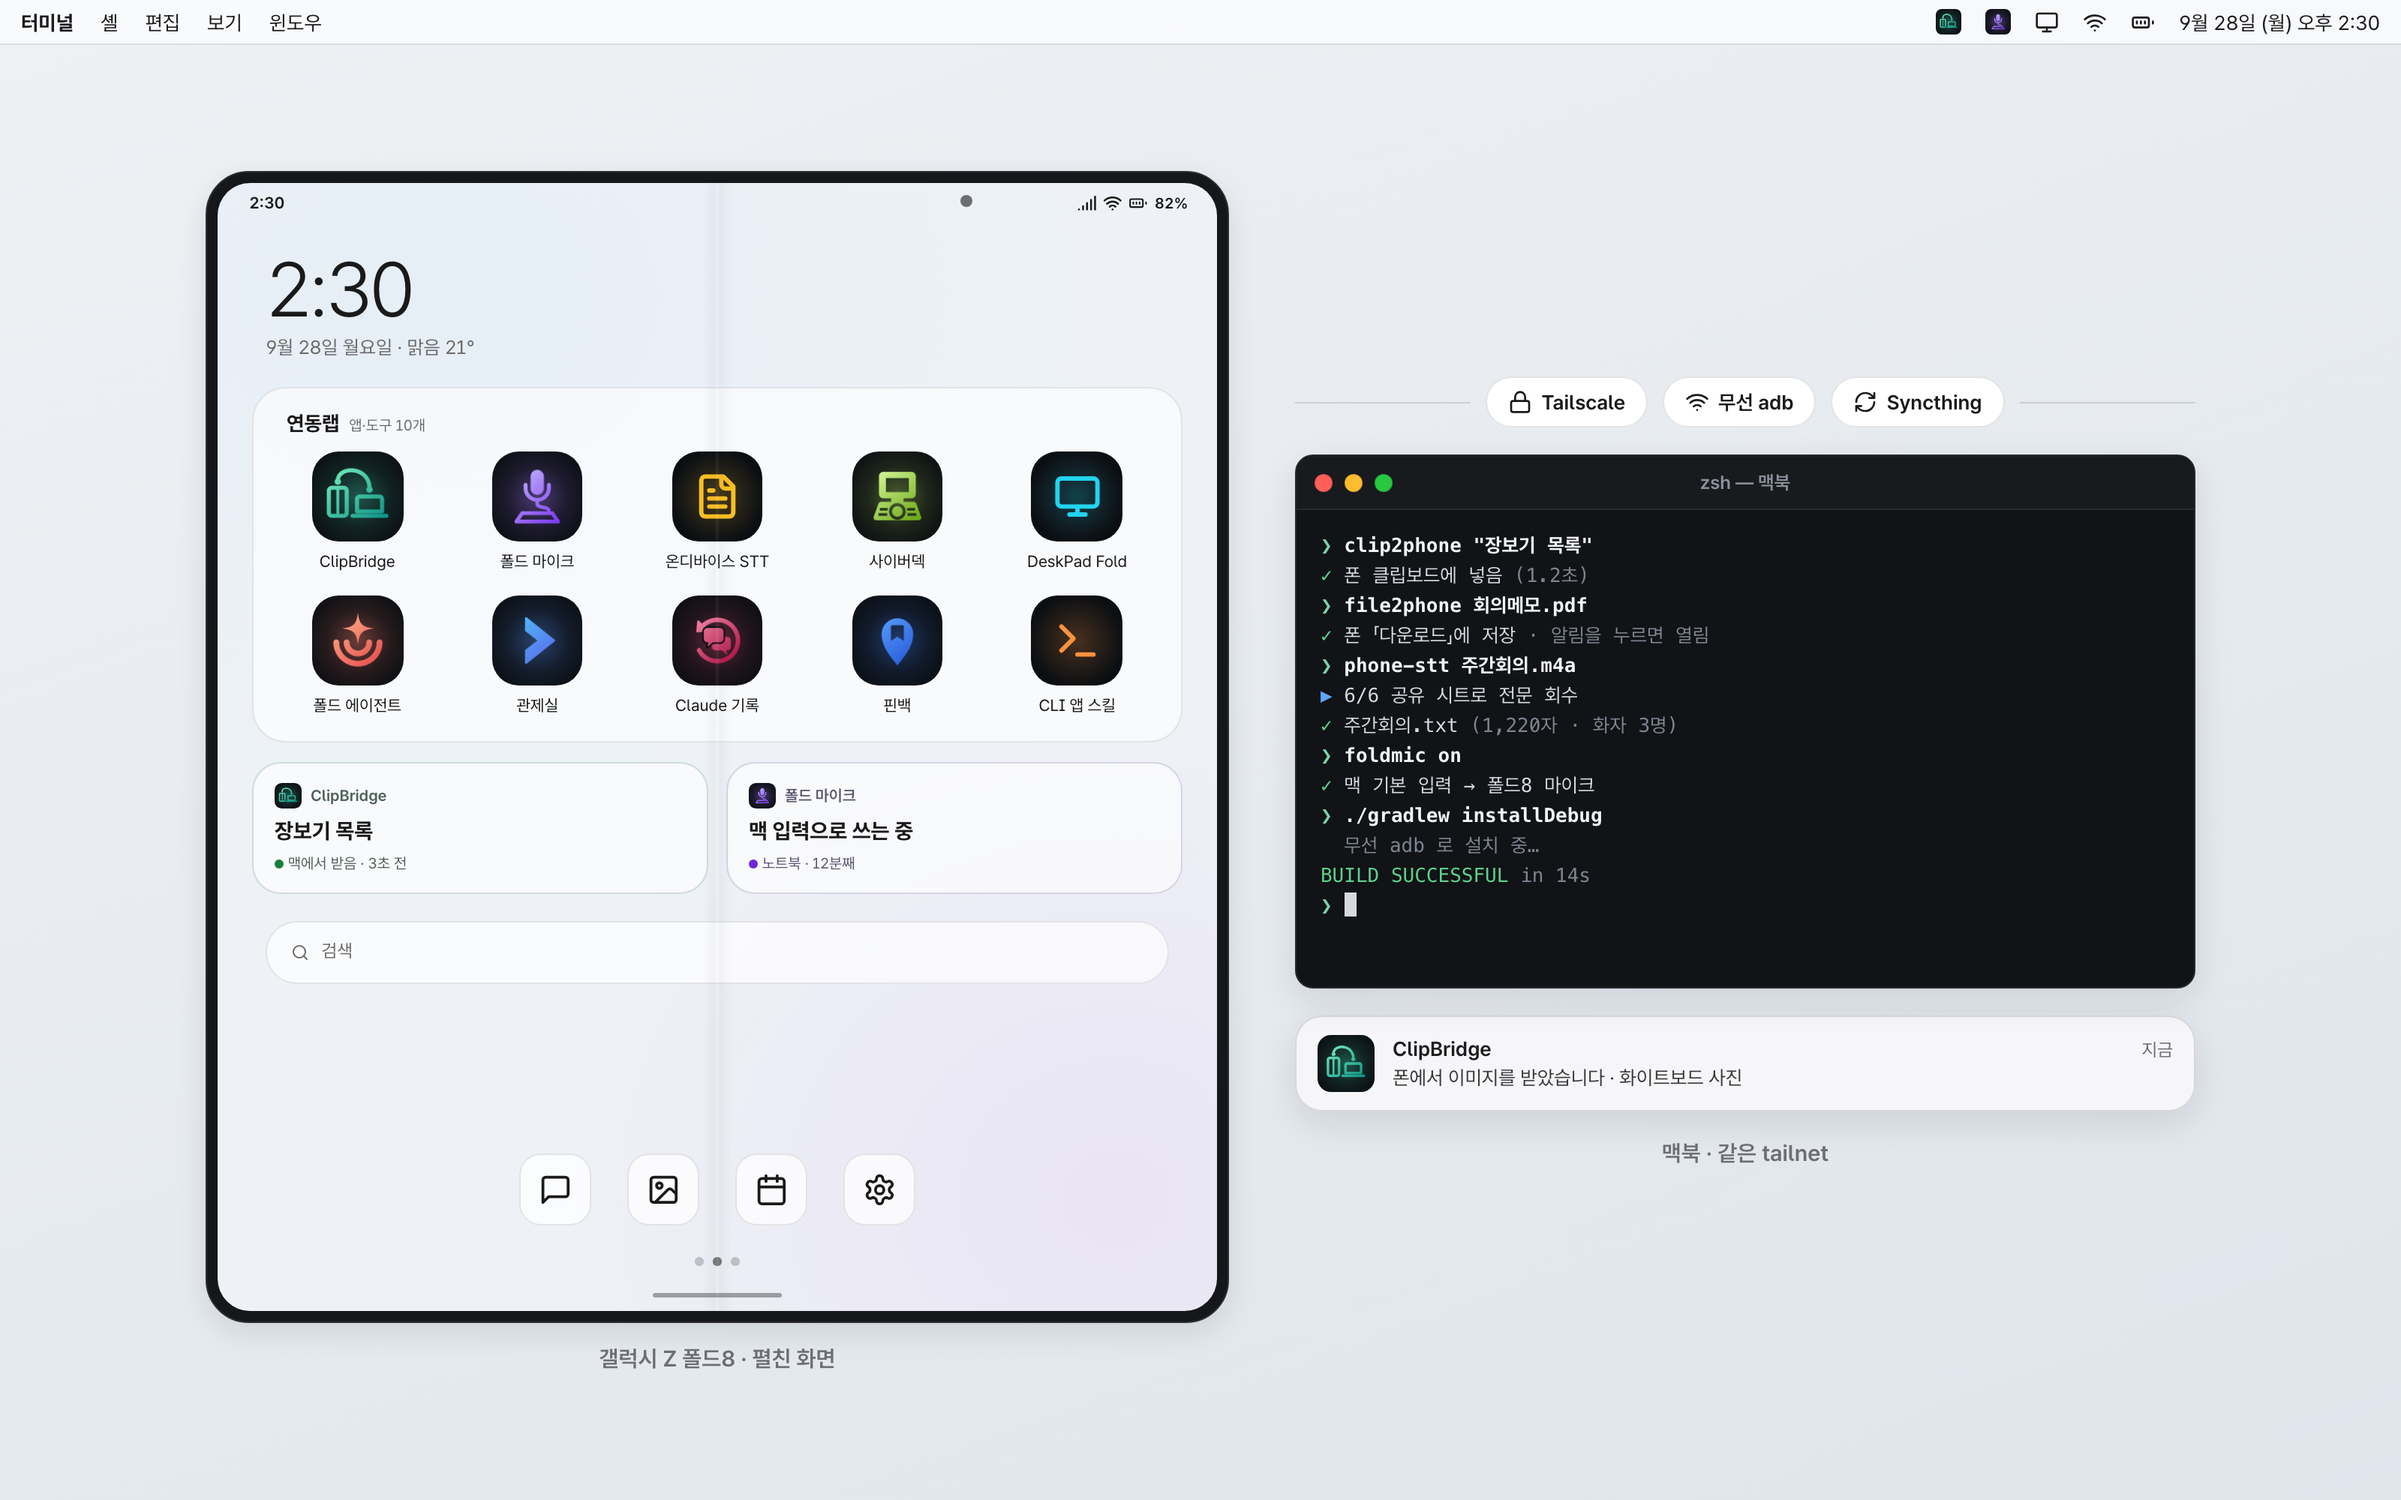
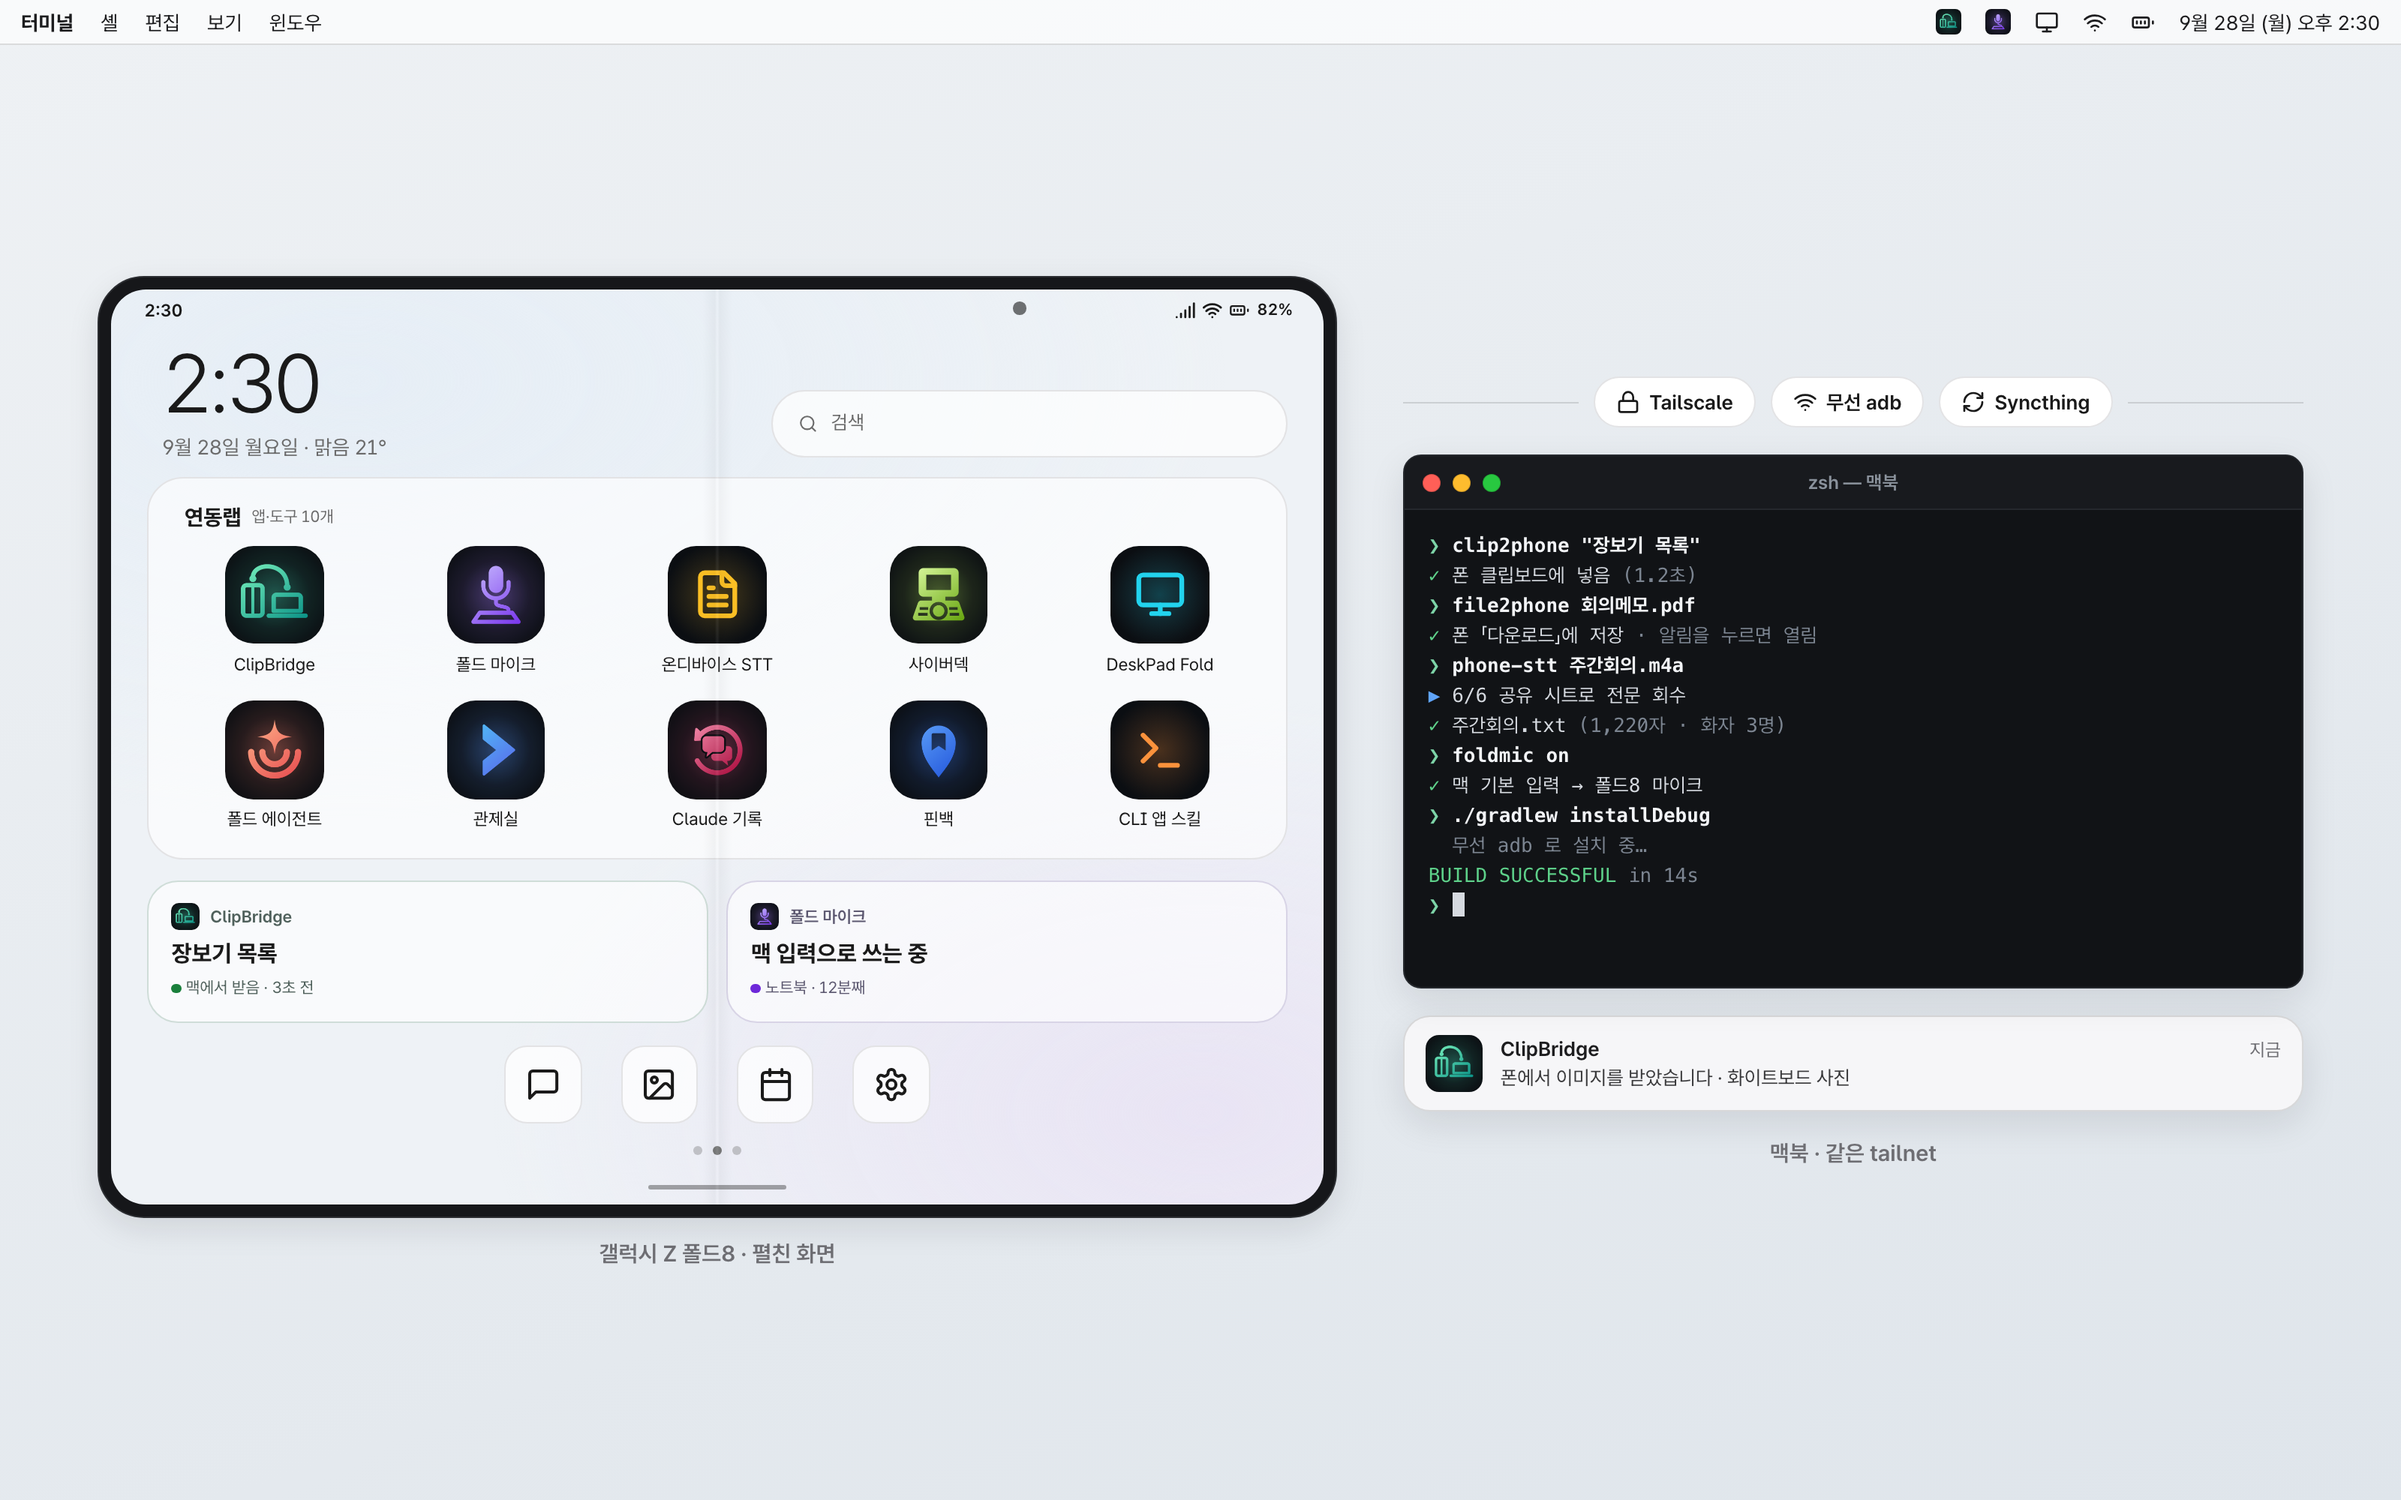
docs: re-render mockups at real Galaxy Z Fold8 ratios
Unfolded screen is now 940x710 landscape: clock and search share the top row
so the home screen fits without clipping; hero phone zoom .8 -> .86.

diff --git a/docs/mockups/hero.html b/docs/mockups/hero.html
@@ -36,12 +36,15 @@
 
     <!-- 폴드8 펼친 화면: 홈 화면에 랩의 앱들 -->
     <div>
-      <div class="fold-open" style="--zoom:.8">
+      <div class="fold-open" style="--zoom:.86">
         <div class="screen home">
           <div class="status-bar" data-time="2:30" data-batt="82"></div>
-          <div class="clock-widget">
+          <div class="home-top">
+            <div class="clock-widget">
             <div class="time">2:30</div>
             <div class="date">9월 28일 월요일 · 맑음 21°</div>
+          </div>
+            <div class="search-pill"><i data-icon="search"></i>검색</div>
           </div>
           <div class="app-folder">
             <div class="folder-title">연동랩 <span class="meta">앱·도구 10개</span></div>
@@ -62,7 +65,6 @@
             <div class="widget app-clipbridge"><div class="w-head"><img data-app="clipbridge" alt="">ClipBridge</div><div class="w-main">장보기 목록</div><div class="meta"><span class="dot ok"></span> 맥에서 받음 · 3초 전</div></div>
             <div class="widget app-foldmic"><div class="w-head"><img data-app="foldmic" alt="">폴드 마이크</div><div class="w-main">맥 입력으로 쓰는 중</div><div class="meta"><span class="dot accent"></span> 노트북 · 12분째</div></div>
           </div>
-          <div class="search-pill"><i data-icon="search"></i>검색</div>
           <div class="dock"><span class="d-ico"><i data-icon="message"></i></span><span class="d-ico"><i data-icon="image"></i></span><span class="d-ico"><i data-icon="calendar"></i></span><span class="d-ico"><i data-icon="settings"></i></span></div>
           <div class="page-dots"><i></i><i class="on"></i><i></i></div>
           <div class="nav-handle"></div>

diff --git a/docs/mockups/thumbnail.html b/docs/mockups/thumbnail.html
@@ -30,9 +30,12 @@
     <div class="fold-open app-neutral" style="--zoom:.76">
       <div class="screen home">
         <div class="status-bar" data-time="2:30" data-batt="82"></div>
-        <div class="clock-widget">
+        <div class="home-top">
+          <div class="clock-widget">
           <div class="time">2:30</div>
           <div class="date">9월 28일 월요일</div>
+        </div>
+          <div class="search-pill"><i data-icon="search"></i>검색</div>
         </div>
         <div class="app-folder">
           <div class="folder-title">연동랩 <span class="meta">앱·도구 10개</span></div>
@@ -53,7 +56,6 @@
             <div class="widget app-clipbridge"><div class="w-head"><img data-app="clipbridge" alt="">ClipBridge</div><div class="w-main">장보기 목록</div><div class="meta"><span class="dot ok"></span> 맥에서 받음 · 3초 전</div></div>
             <div class="widget app-foldmic"><div class="w-head"><img data-app="foldmic" alt="">폴드 마이크</div><div class="w-main">맥 입력으로 쓰는 중</div><div class="meta"><span class="dot accent"></span> 노트북 · 12분째</div></div>
           </div>
-          <div class="search-pill"><i data-icon="search"></i>검색</div>
         <div class="dock"><span class="d-ico"><i data-icon="message"></i></span><span class="d-ico"><i data-icon="image"></i></span><span class="d-ico"><i data-icon="calendar"></i></span><span class="d-ico"><i data-icon="settings"></i></span></div>
           <div class="page-dots"><i></i><i class="on"></i><i></i></div>
         <div class="nav-handle"></div>

diff --git a/docs/mockups/_hub.css b/docs/mockups/_hub.css
@@ -69,3 +69,11 @@
 .dock .d-ico { width: 60px; height: 60px; border-radius: 18px; display: flex; align-items: center; justify-content: center; font-size: 28px;
   background: light-dark(rgba(255, 255, 255, .75), rgba(40, 44, 52, .8)); border: 1px solid var(--border); color: var(--text); }
 .page-dots { margin-top: 18px; }
+
+/* 폴드8 펼친 화면(940x710 가로)용 윗줄: 왼쪽 반은 시계, 오른쪽 반은 검색 — 세로 공간을 아낀다 */
+.home-top { display: flex; align-items: flex-end; justify-content: space-between; padding-right: 28px; }
+.home-top .clock-widget { padding-top: 4px; }
+.home-top .search-pill { margin: 0 0 4px; width: 400px; flex: none; }
+.home-top + .app-folder { margin-top: 12px; }
+.home-top ~ .dock { margin-top: 18px; }
+.home-top ~ .page-dots { margin-top: 10px; }
